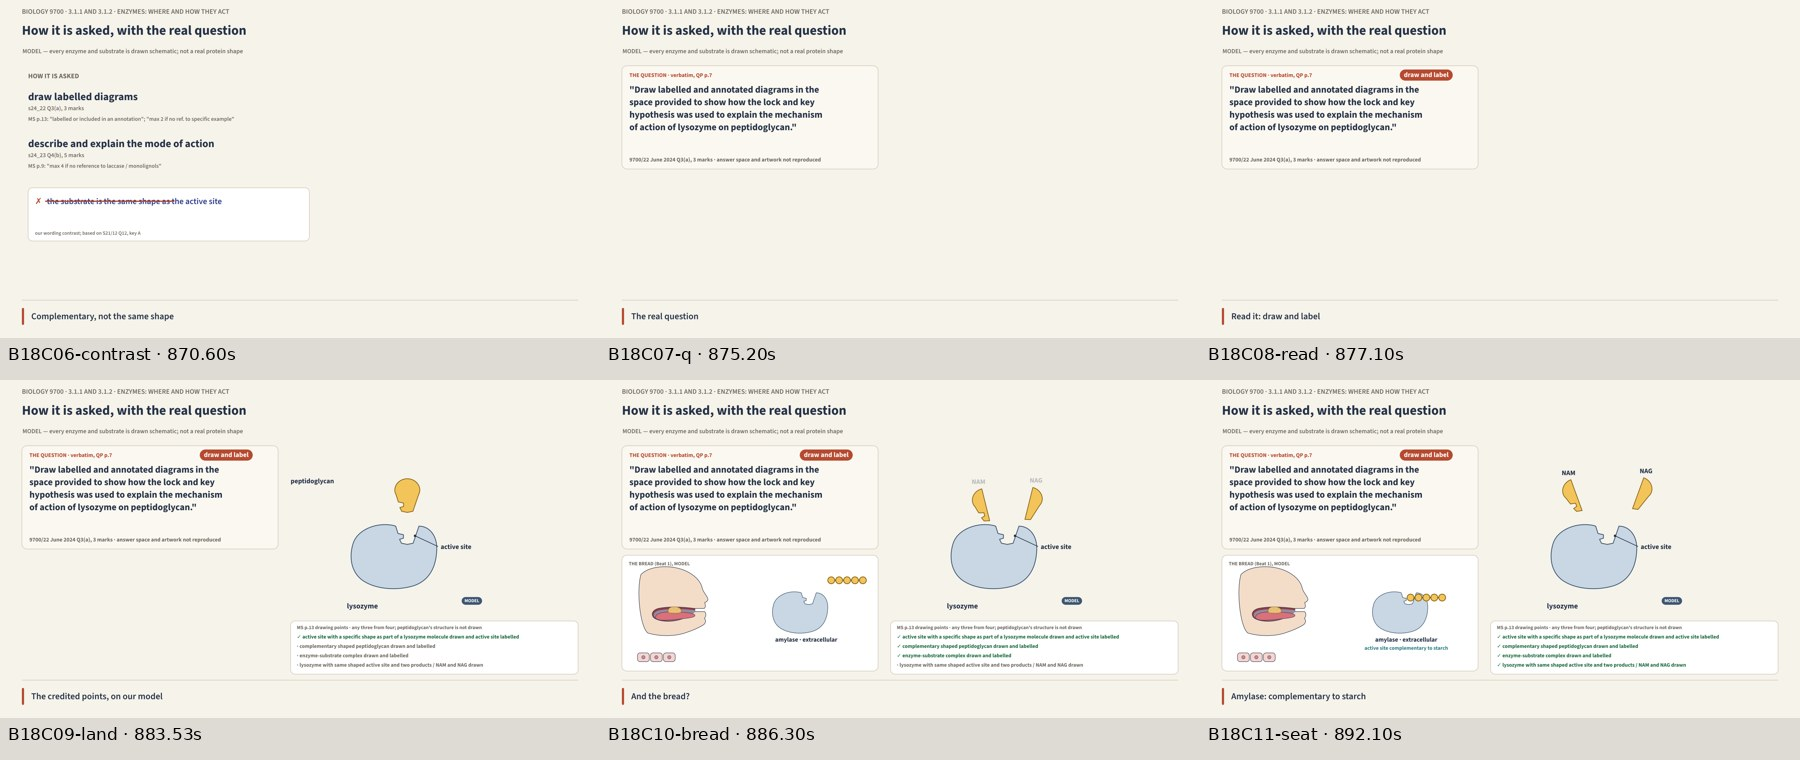
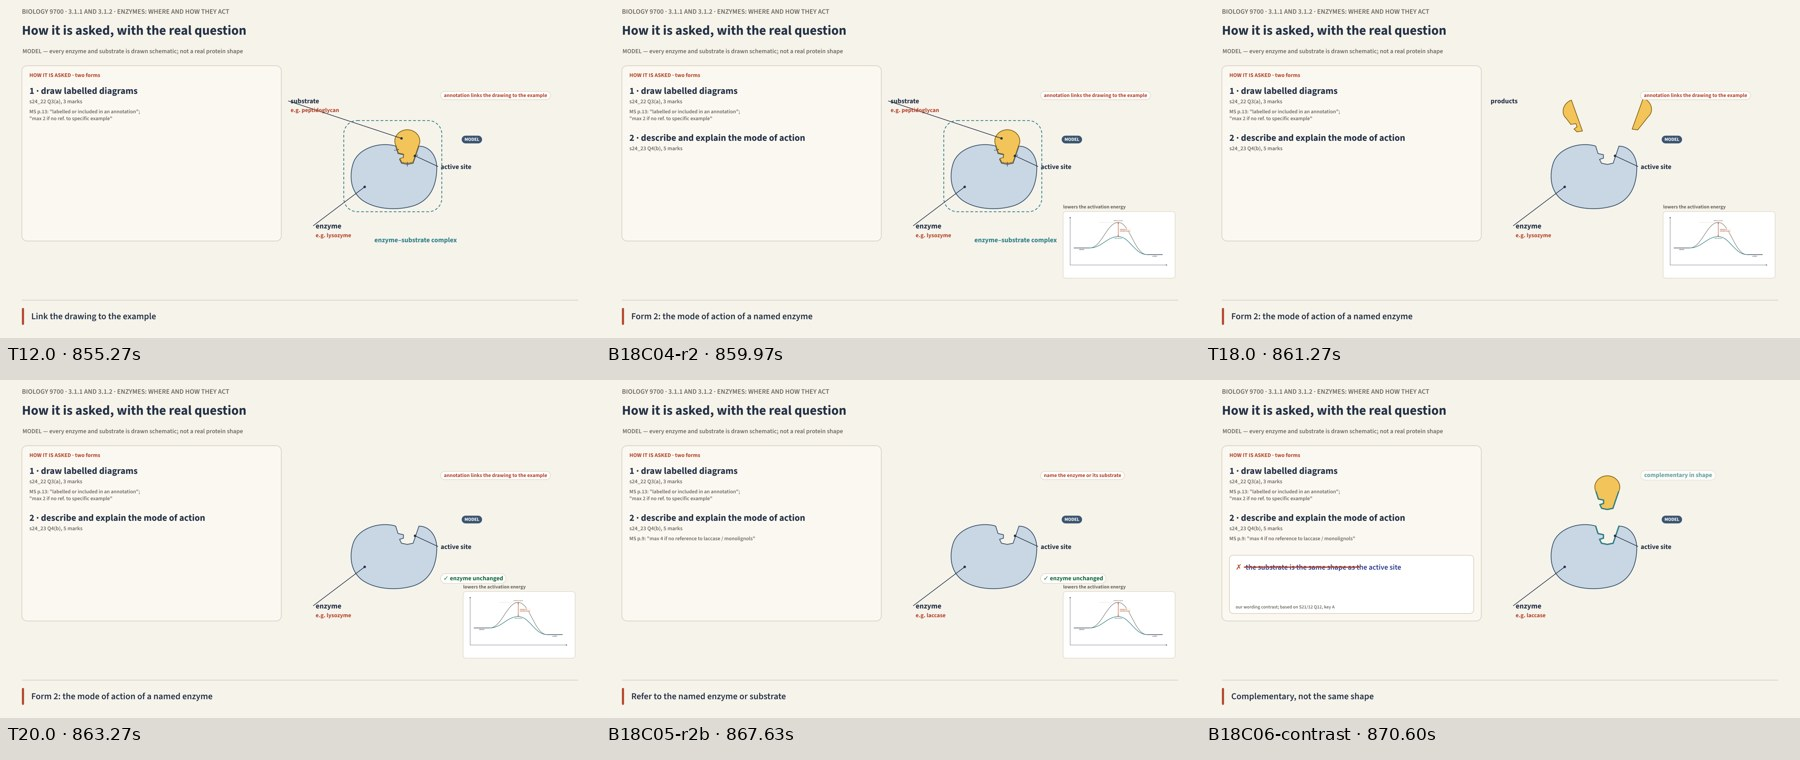
3.1.1-2 v2: Beat 18 redesigned so every frame carries the model; re-rendered, verified, re-branded
Claude-Session: https://claude.ai/code/session_01DT9UMK1hgBhPo7UTLeHJga

diff --git a/work/3.1.1-2/src/beats/Beat18.tsx b/work/3.1.1-2/src/beats/Beat18.tsx
@@ -1,11 +1,16 @@
-/** How it is asked, with the real question on screen. Forms surface (two cited forms + our wording contrast)
- * → the verbatim s24_22 Q3(a) instruction (no Cambridge artwork, no answer space) → 5 s anchored read →
- * the credited points land on our lock-and-key model with the lysozyme labels → the bread answered. */
+/** How it is asked, with the real question on screen. v2 (Durai's review): NO text-only frame. ONE model stays
+ * on screen for the whole beat: while "draw labelled diagrams" is read, the substrate seats and the diagram is
+ * LABELLED (enzyme, active site, substrate, complex; then the supplied-example annotations); for "mode of action"
+ * the model runs bound → products (one-frame switch) → unchanged, with a compact energy inset; for "complementary
+ * shapes" both outlines are traced. The forms are a compact card BESIDE the model. Then the verbatim s24_22 Q3(a)
+ * instruction (no Cambridge artwork, no answer space) → 5 s anchored read → the credited points land on the same
+ * model with the lysozyme labels → the bread answered. */
 import React from 'react';
 import {BRAND as C, clamp01} from '../../shared/src/theme';
 import {Txt, Tag, Lines, Cite} from '../../shared/src/Type';
 import {Enzyme, Substrate, Products, Ticks, ComplexBracket, ModelTag, Label, pt, MiniEnzyme} from '../Model';
 import {Mouth, Bread, Beads, TongueCells} from '../Scenes';
+import {EnergyGraph} from '../Graph';
 import {Strike, GOOD, PEN} from '../Panels';
 import {fi, fe, path, between} from '../util';
 
@@ -18,7 +23,17 @@ export default function Beat18(s: any) {
   const out = fe(a('q'), 0.8);
   const L = a('land');
   const X = 1260, Y = 560, S = 0.62;
-  const [dx, dy] = L >= 0.6 ? path(L - 0.6, [[0, 0, -175], [0.8, 0, 0]]) : [0, -175];
+  const r1 = a('r1'), r2 = a('r2'), cs0 = a('contrast');
+  // phase 1 (before the question): seat at r1, products at r2, a fresh substrate apart (traced) at contrast
+  const p1Seat = r1 >= 0.3 ? path(r1 - 0.3, [[0, 0, -175], [0.8, 0, 0]]) : [0, -175];
+  const p1Prod = r2 - 1.0, lv1 = p1Prod >= 0 ? fe(p1Prod, 1.2) : 0;
+  const fresh = cs0 >= 0;
+  const inP1 = L < 0;
+  const [dx, dy] = L >= 0.6 ? path(L - 0.6, [[0, 0, -175], [0.8, 0, 0]]) : fresh || !inP1 ? [0, -175] : p1Seat;
+  const lab = (t: number) => fi(r1 - t, 0.3) * (1 - fi(a('q'), 0.5));
+  const exA = between(a('r1b'), a('r2b'), 0.3) * (1 - fi(a('q'), 0.5)), exB = fi(a('r2b')) * (1 - fi(a('q'), 0.5));
+  const complexOn = between(r1 - 1.9, p1Prod, 0.3) * (1 - fi(a('q'), 0.5));
+  const trace = fresh ? fe(cs0 - 0.3, 0.8) * (1 - fi(a('q'), 0.5)) : 0;
   const prodAge = L - 2.8, lv = prodAge >= 0 ? fe(prodAge, 1.2) : 0;
   const tick = (i: number) => fi(L - [0.4, 1.4, 2.0, 3.6][i], 0.3);
   const cs = a('contrast');
@@ -26,24 +41,26 @@ export default function Beat18(s: any) {
   const [bx, byy] = seat >= 0 ? path(seat, [[0, 740, 640], [1.0, 668, 700]]) : [740, 640];
   return (
     <g>
-      {/* forms surface */}
-      <g opacity={1 - out} transform={`translate(${-500 * out} 0)`}>
-        <Txt x={90} y={250} size={22} weight={800} fill={C.muted} opacity={fi(a('open'))}>HOW IT IS ASKED</Txt>
+      {/* forms: a COMPACT card beside the model (never alone on the page) */}
+      <g opacity={(1 - out) * fi(a('open'))} transform={`translate(${-500 * out} 0)`}>
+        <rect x={70} y={210} width={830} height={560} rx={16} fill="#FBF8F1" stroke={C.line} strokeWidth={2} />
+        <Txt x={94} y={246} size={18} weight={800} fill={C.primary}>HOW IT IS ASKED · two forms</Txt>
         <g opacity={fi(a('r1'))}>
-          <Txt x={90} y={320} size={34} weight={800}>draw labelled diagrams</Txt><Cite x={90} y={352} text="s24_22 Q3(a), 3 marks" size={19} />
-          <Lines x={90} y={386} size={18} step={23} weight={600} fill={C.muted} italic opacity={fi(a('r1b'))} text={'MS p.13: "labelled or included in an annotation"; "max 2 if no ref. to specific example"'} />
+          <Txt x={94} y={300} size={30} weight={800}>1 · draw labelled diagrams</Txt><Cite x={94} y={330} text="s24_22 Q3(a), 3 marks" size={18} />
+          <Lines x={94} y={362} size={17} step={22} weight={600} fill={C.muted} italic opacity={fi(a('r1b'))} text={'MS p.13: "labelled or included in an annotation";\n"max 2 if no ref. to specific example"'} />
         </g>
         <g opacity={fi(a('r2'))}>
-          <Txt x={90} y={470} size={34} weight={800}>describe and explain the mode of action</Txt><Cite x={90} y={502} text="s24_23 Q4(b), 5 marks" size={19} />
-          <Lines x={90} y={536} size={18} step={23} weight={600} fill={C.muted} italic opacity={fi(a('r2b'))} text={'MS p.9: "max 4 if no reference to laccase / monolignols"'} />
+          <Txt x={94} y={450} size={30} weight={800}>2 · describe and explain the mode of action</Txt><Cite x={94} y={480} text="s24_23 Q4(b), 5 marks" size={18} />
+          <Lines x={94} y={512} size={17} step={22} weight={600} fill={C.muted} italic opacity={fi(a('r2b'))} text={'MS p.9: "max 4 if no reference to laccase / monolignols"'} />
         </g>
         <g opacity={fi(cs)}>
-          <rect x={90} y={600} width={900} height={170} rx={14} fill={C.white} stroke={C.line} strokeWidth={2} />
-          <Txt x={112} y={652} size={27} weight={800} fill={C.primary}>✗</Txt>
-          <Txt x={150} y={652} size={27} weight={600} fill={PEN} italic>the substrate is the same shape as the active site</Txt>
-          <Strike x1={146} x2={150 + 600} y={643} p={fe(cs - 0.5, 0.5)} width={4} />
-          <Txt x={112} y={704} size={27} weight={800} fill={GOOD} opacity={fi(cs - 0.9)}>✓ the substrate is complementary in shape to the active site</Txt>
-          <Txt x={112} y={750} size={16} weight={600} fill={C.muted} italic>our wording contrast; based on S21/12 Q12, key A</Txt>
+          <rect x={94} y={560} width={782} height={186} rx={12} fill={C.white} stroke={C.line} strokeWidth={2} />
+          <Txt x={114} y={606} size={24} weight={800} fill={C.primary}>✗</Txt>
+          <Txt x={146} y={606} size={24} weight={600} fill={PEN} italic>the substrate is the same shape as the active site</Txt>
+          <Strike x1={142} x2={146 + 540} y={598} p={fe(cs - 0.5, 0.5)} width={4} />
+          <Txt x={114} y={660} size={24} weight={800} fill={GOOD} opacity={fi(cs - 0.9)}>✓ the substrate is complementary in shape</Txt>
+          <Txt x={146} y={692} size={24} weight={800} fill={GOOD} opacity={fi(cs - 0.9)}>to the active site</Txt>
+          <Txt x={114} y={730} size={15} weight={600} fill={C.muted} italic>our wording contrast; based on S21/12 Q12, key A</Txt>
         </g>
       </g>
       {/* the real question, verbatim */}
@@ -54,19 +71,45 @@ export default function Beat18(s: any) {
         <Txt x={94} y={516} size={18} weight={700} fill={C.muted}>9700/22 June 2024 Q3(a), 3 marks · answer space and artwork not reproduced</Txt>
         <Tag x={640} y={246} text="draw and label" size={22} fill={C.white} bg={C.primary} stroke={C.primary} opacity={fi(a('read'))} />
       </g>
-      {/* our model, lysozyme labels */}
-      <g opacity={fi(L, 0.5)}>
-        <Enzyme x={X} y={Y} s={S}>
-          {prodAge < 0 && <Substrate kind="gen" dx={dx} dy={dy} />}
-          {prodAge < 0 && L >= 1.4 && <Ticks p={fi(L - 1.4, 0.3)} />}
-          {prodAge >= 0 && <Products lx={-170 * lv} ly={-150 * lv} rx={170 * lv} ry={-160 * lv} lrot={-20 * lv} rrot={20 * lv} />}
-          <ComplexBracket p={between(L - 2.0, prodAge, 0.3)} />
+      {/* ONE model for the whole beat (phase 1: forms; phase 2: the real question) */}
+      <g>
+        <Enzyme x={X} y={Y} s={S} trace={trace}>
+          {inP1 && !fresh && p1Prod < 0 && <Substrate kind="gen" dx={dx} dy={dy} />}
+          {inP1 && !fresh && p1Prod < 0 && r1 >= 1.1 && <Ticks p={fi(r1 - 1.1, 0.3)} />}
+          {inP1 && !fresh && p1Prod >= 0 && <Products lx={-170 * lv1} ly={-150 * lv1} rx={170 * lv1} ry={-160 * lv1} lrot={-20 * lv1} rrot={20 * lv1} opacity={1 - fi(p1Prod - 2.4, 0.6)} />}
+          {inP1 && fresh && <Substrate kind="gen" dx={0} dy={-175} opacity={fi(cs0, 0.4)} trace={trace} />}
+          {!inP1 && prodAge < 0 && <Substrate kind="gen" dx={dx} dy={dy} />}
+          {!inP1 && prodAge < 0 && L >= 1.4 && <Ticks p={fi(L - 1.4, 0.3)} />}
+          {!inP1 && prodAge >= 0 && <Products lx={-170 * lv} ly={-150 * lv} rx={170 * lv} ry={-160 * lv} lrot={-20 * lv} rrot={20 * lv} />}
+          <ComplexBracket p={inP1 ? complexOn : between(L - 2.0, prodAge, 0.3)} />
         </Enzyme>
-        <ModelTag x={X + 250} y={Y + 150} caption={false} size={15} />
+        {/* phase 1: the diagram being labelled */}
+        <Label lx={X - 250} ly={Y + 170} tx={pt(X, Y, S, -150, 60)[0]} ty={pt(X, Y, S, -150, 60)[1]} text="enzyme" size={24} opacity={lab(0.5)} />
+        <Label lx={X + 150} ly={Y - 20} tx={pt(X, Y, S, 110, -100)[0]} ty={pt(X, Y, S, 110, -100)[1]} text="active site" size={22} opacity={lab(1.0) * (1 - fi(L, 0.3))} />
+        <Label lx={X - 330} ly={Y - 230} tx={pt(X, Y, S, 40, -190)[0]} ty={pt(X, Y, S, 40, -190)[1]} text="substrate" size={22} opacity={lab(1.4) * (1 - fi(r2 - 1.0, 0.3))} />
+        <Txt x={X + 70} y={Y + 214} size={22} weight={800} fill={C.teal} anchor="middle" opacity={complexOn}>enzyme–substrate complex</Txt>
+        <Txt x={X - 250} y={Y + 198} size={19} weight={700} fill={C.primary} italic opacity={exA}>e.g. lysozyme</Txt>
+        <Txt x={X - 330} y={Y - 202} size={19} weight={700} fill={C.primary} italic opacity={exA * (1 - fi(r2 - 1.0, 0.3))}>e.g. peptidoglycan</Txt>
+        <Txt x={X - 250} y={Y + 198} size={19} weight={700} fill={C.primary} italic opacity={exB}>e.g. laccase</Txt>
+        <Tag x={X + 150} y={Y - 250} text="annotation links the drawing to the example" size={17} fill={C.primary} opacity={exA} />
+        <Tag x={X + 150} y={Y - 250} text="name the enzyme or its substrate" size={17} fill={C.primary} opacity={exB * (1 - fi(cs0, 0.3))} />
+        <Label lx={X - 330} ly={Y - 230} text="products" size={22} opacity={inP1 && !fresh ? fi(p1Prod - 0.6, 0.3) * (1 - fi(p1Prod - 2.4, 0.6)) : 0} />
+        <Tag x={X + 150} y={Y + 80} text="✓ enzyme unchanged" size={20} fill="#1D6B40" opacity={between(r2 - 2.4, cs0, 0.3)} />
+        <Tag x={X + 150} y={Y - 250} text="complementary in shape" size={20} fill={C.teal} opacity={trace} />
+        {/* mode of action: compact energy inset beside the model */}
+        <g opacity={between(r2 + 0.4, cs0, 0.4)} transform="translate(1440 620) scale(0.28)">
+          <rect x={150} y={200} width={1280} height={760} rx={30} fill={C.white} stroke={C.line} strokeWidth={5} />
+          <EnergyGraph x={230} y={270} w={1100} h={540} v={{axes: 1, sub: 1, prod: 1, u: 1, c: 1, red: 1}} small />
+        </g>
+        <Txt x={1482} y={666} size={16} weight={700} fill={C.muted} opacity={between(r2 + 0.4, cs0, 0.4)}>lowers the activation energy</Txt>
+      </g>
+      {/* phase 2 labels */}
+      <ModelTag x={X + 250} y={Y - 110} caption={false} size={15} />
+      <g opacity={fi(L, 0.5)}>
         <Label lx={X - 150} ly={Y + 170} text="lysozyme" size={24} />
         <Label lx={X + 150} ly={Y - 20} tx={pt(X, Y, S, 110, -100)[0]} ty={pt(X, Y, S, 110, -100)[1]} text="active site" size={22} />
         <Label lx={X - 330} ly={Y - 230} text="peptidoglycan" size={22} opacity={1 - fi(prodAge)} />
-        <Txt x={X - 60} y={Y + 210} size={22} weight={800} fill={C.teal} anchor="middle" opacity={between(L - 2.0, prodAge)}>enzyme-substrate complex</Txt>
+        <Txt x={X + 70} y={Y + 214} size={22} weight={800} fill={C.teal} anchor="middle" opacity={between(L - 2.0, prodAge)}>enzyme-substrate complex</Txt>
         {prodAge >= 0 && <g opacity={fi(prodAge - 0.6)}>
           <Txt x={pt(X, Y, S, 40 - 170 * lv, -150 * lv - 150)[0]} y={pt(X, Y, S, 40 - 170 * lv, -150 * lv - 150)[1] - 70} size={22} weight={800} anchor="middle">NAM</Txt>
           <Txt x={pt(X, Y, S, 100 + 170 * lv, -160 * lv - 150)[0]} y={pt(X, Y, S, 100 + 170 * lv, -160 * lv - 150)[1] - 70} size={22} weight={800} anchor="middle">NAG</Txt>

diff --git a/work/3.1.1-2/REPORT-v2.md b/work/3.1.1-2/REPORT-v2.md
@@ -1,0 +1,50 @@
+# 3.1.1-2 · v2 FIX · Beat 18 has a visual on every frame
+
+**Model:** claude-opus-5-5. Branch `cloud/003-3.1.1-2` only. VM was intact (no restore needed); the branding inputs were
+re-checked-out from `origin/cloud/inputs-003` (not committed). Bookends reused unchanged (sha256 below).
+
+## The defect (Durai)
+Beat 18, master ≈14:03–14:24 (branded ≈14:08–14:29): ~20 s of a near-empty page, three small lines of the "how it is asked"
+list top-left and no visual. VIDEO-STRUCTURE forbids a text-only frame.
+
+## What changed (Beat 18 only; `src/beats/Beat18.tsx`; narration, audio, cues and timing FROZEN)
+- **One model on screen for the whole beat** (same position as the lysozyme model of the second half, so it never leaves):
+  - *draw labelled diagrams*: the substrate seats (motion) and the diagram is LABELLED in front of the student: enzyme →
+    active site → substrate → enzyme–substrate complex (bracket); at *a label or annotation linking the drawing to the supplied
+    example* the annotations "e.g. lysozyme / e.g. peptidoglycan" appear, tagged "annotation links the drawing to the example".
+  - *describe and explain the mode of action*: the same model runs complex → products (one-frame outline switch, then drift) →
+    "✓ enzyme unchanged", with a compact energy-profile inset ("lowers the activation energy"); at *laccase or its substrates* the
+    annotation becomes "e.g. laccase", tagged "name the enzyme or its substrate".
+  - *describe complementary shapes*: a fresh substrate sits above the cleft and both outlines are traced ("complementary in shape")
+    while the ✗ same shape / ✓ complementary card lands.
+- **The forms list is a compact card BESIDE the model** (left column, "HOW IT IS ASKED · two forms", with the MS citations and the
+  wording-contrast card inside it) — never alone on the page. At *Here is the drawing question* it slides out and the verbatim
+  question takes its place; the model stays, and the rest of the beat (5 s anchored read, credited points landing with the
+  lysozyme labels, NAM/NAG, the bread inset, 2 s final hold) is as v1.
+- MODEL tag visible on every frame of the beat.
+
+## Verification (v2 master; PIPELINE-STANDARD §4 order, `qa/verification.json`)
+Only Beat 18 re-rendered (`logs/chain-finish-v2.log`: "beat 18 exit 0"); `finish.py` confirmed all 18 chunks current.
+1. ffprobe 900.133 s. 2. Video 900.133 ≥ encoded audio 899.133. 3. Full decode **0 errors**. 4. Cues **224/224** (exact, unique,
+in order). 5. AAC packets identical (42,148). 6. Final word "substrate." ends 895.947 s, headroom 3.19 s. 7. Silent reads all-zero
+PCM, −91 dB encoded (B5, B11, B14, B16, B18 read + END). 8. Boundaries: 17 tested, **0** one-frame-hold candidates.
+**Every-frame marker audit:** 9,344 marked / 17,660 unmarked, **0 mismatches**, badge = COMMON MISTAKE (MAE ≤ 3.90; EXAM
+CONTRAST ≥ 20.3). **Valence audit** (B9): 1,131 frames, all OK. Longest unchanged visual 11.5 s; none over 15 s.
+**Beat 18 contact sheet from the ENCODED master** (`qa/beat18-v2-sheet-1.jpg`, `-2.jpg`, 23 frames every 2.5 s, plus
+`qa/beat-18/sheet-*.jpg` per cue): LOOKED at — every frame 14:03–15:00 carries the model; no text-only frame remains.
+**Branded:** 911.162 s = master + 11.029 s; full decode 0 errors; branded Beat 18 frame (`qa/branded-v2-b18.jpg`, 14:13 branded)
+shows the labelled model beside the forms card inside the cream frame under the title bar.
+
+## New files
+| | Duration | SHA-256 |
+|---|---|---|
[4 lines of base64/hex data omitted]
+v1 files kept locally as `…-SUPERSEDED-v1.mp4` (not in git).
+
+## Bunny
+New video **`a8f7f4ac-caac-4382-8730-d9e0100e6767`**, "REVIEW 3.1.1-2 Enzymes: where and how they act (v2)", **no collection**.
+Create 200; PUT `curl -T` 200 (39,836,781 B) at 13:48:35Z; BUNNY_V2. The first REVIEW video
+(`08c56c4e-3505-412c-af04-4175524e4a1b`) was not touched (still status 4). Nothing deleted or moved.

diff --git a/work/3.1.1-2/PROGRESS.md b/work/3.1.1-2/PROGRESS.md
@@ -1,7 +1,7 @@
 # 3.1.1-2 Enzymes: where and how they act · BUILD PROGRESS (handover)
 
-Updated 2026-09-24 12:38Z. Builder: claude-opus-5-5 (cloud run 003). Branch `cloud/003-3.1.1-2` ONLY.
-**Phase: BUILD COMPLETE — delivered for REVIEW on Bunny (guid 08c56c4e-3505-412c-af04-4175524e4a1b, status 4 at 12:38:29Z, no collection). See REPORT.md.** · **Beats complete: 18 / 18** · master: present
+Updated 2026-09-24 13:59Z. Builder: claude-opus-5-5 (cloud run 003). Branch `cloud/003-3.1.1-2` ONLY.
+**Phase: v2 FIX — Beat 18 redesigned (visual on every frame), re-rendered, verified, re-branded; uploaded to Bunny as NEW video a8f7f4ac-caac-4382-8730-d9e0100e6767 (v2). See REPORT-v2.md. If this session died before status 4: `./bunny-poll.sh a8f7f4ac-caac-4382-8730-d9e0100e6767 logs/bunny-poll-v2.txt` and fill BUNNY_V2 in REPORT-v2.md.** · **Beats complete: 18 / 18** · master: present
 Live render processes: none
 NOTE: render-cache/ (chunks) and all MP4/WAV are NOT in git — a fresh container must re-render approved beats
 (`./launch-render.sh N`, 4 at a time); approvals (qa/beat-NN/approved.json) ARE in git and stay valid while the

diff --git a/work/3.1.1-2/progress-notes.md b/work/3.1.1-2/progress-notes.md
@@ -1,4 +1,4 @@
-PHASE: BUILD COMPLETE — delivered for REVIEW on Bunny (guid 08c56c4e-3505-412c-af04-4175524e4a1b, status 4 at 12:38:29Z, no collection). See REPORT.md.
+PHASE: v2 FIX — Beat 18 redesigned (visual on every frame), re-rendered, verified, re-branded; uploaded to Bunny as NEW video a8f7f4ac-caac-4382-8730-d9e0100e6767 (v2). See REPORT-v2.md. If this session died before status 4: `./bunny-poll.sh a8f7f4ac-caac-4382-8730-d9e0100e6767 logs/bunny-poll-v2.txt` and fill BUNNY_V2 in REPORT-v2.md.
 
 ## Resume procedure (fresh container)
 1. `apt-get update && apt-get install -y ffmpeg`; `pip install faster-whisper pillow numpy fonttools brotli`.
